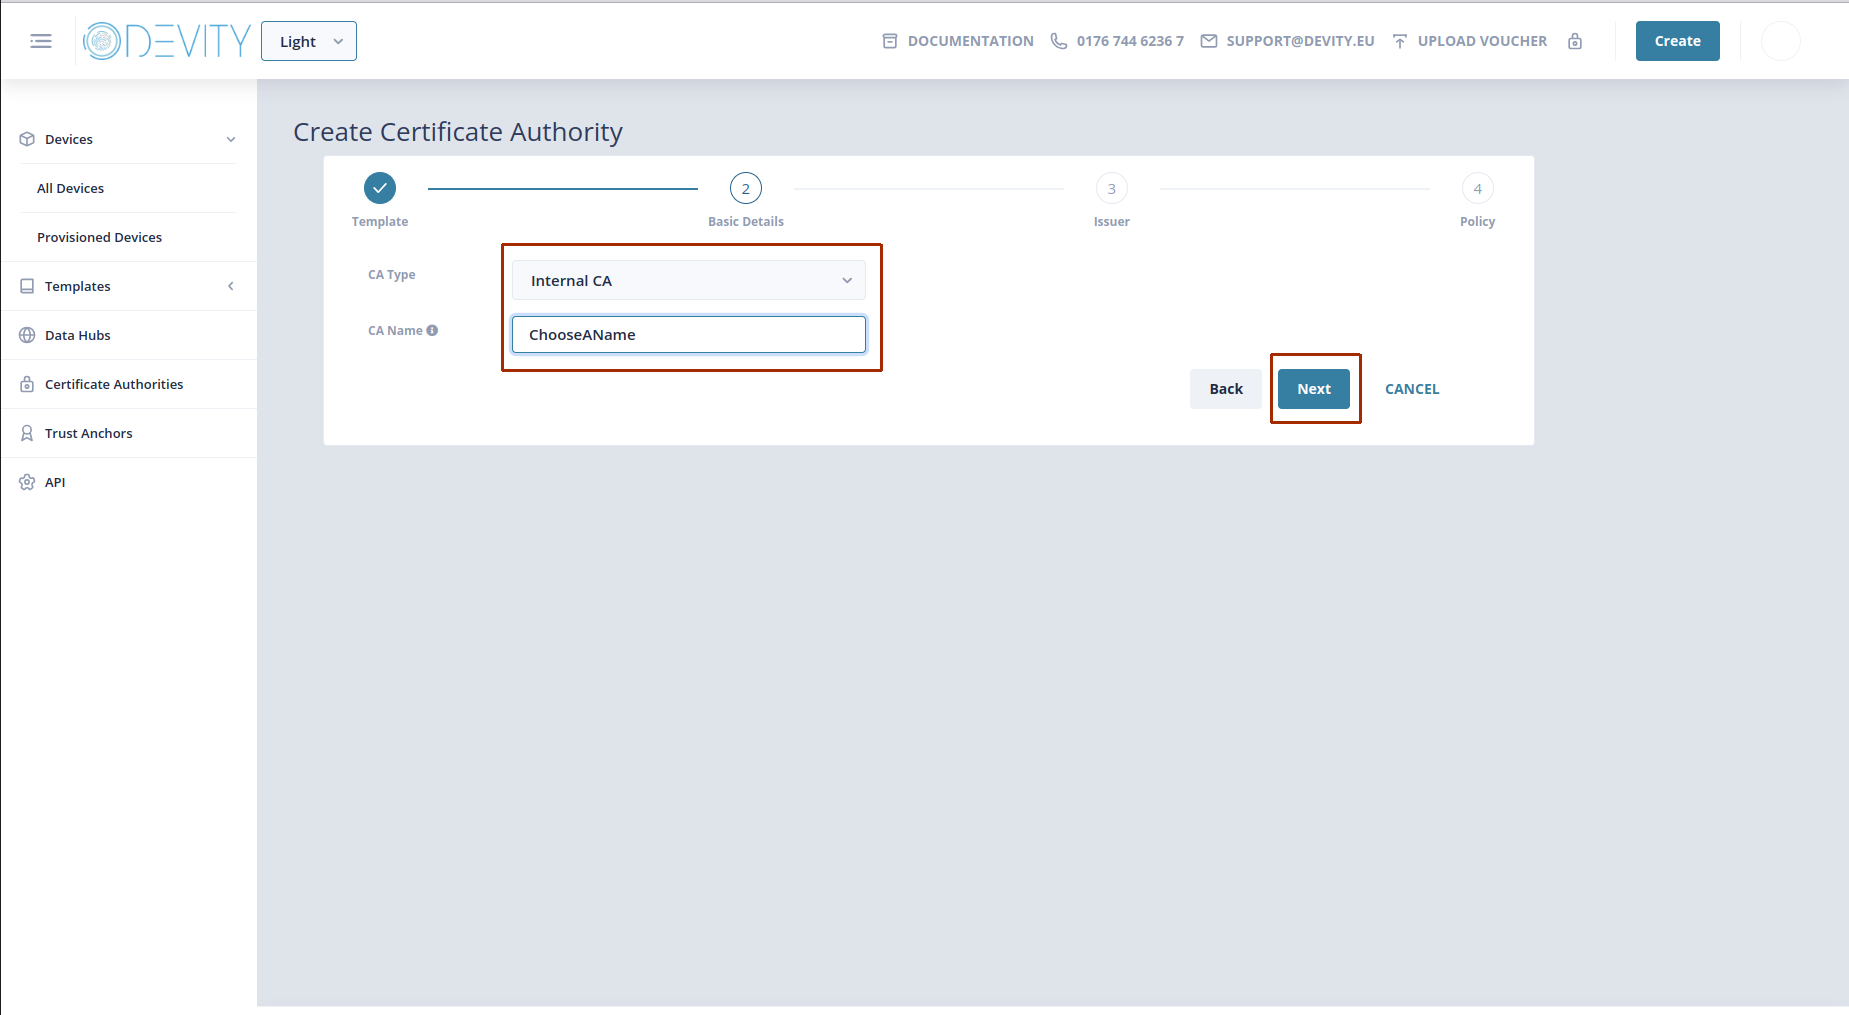
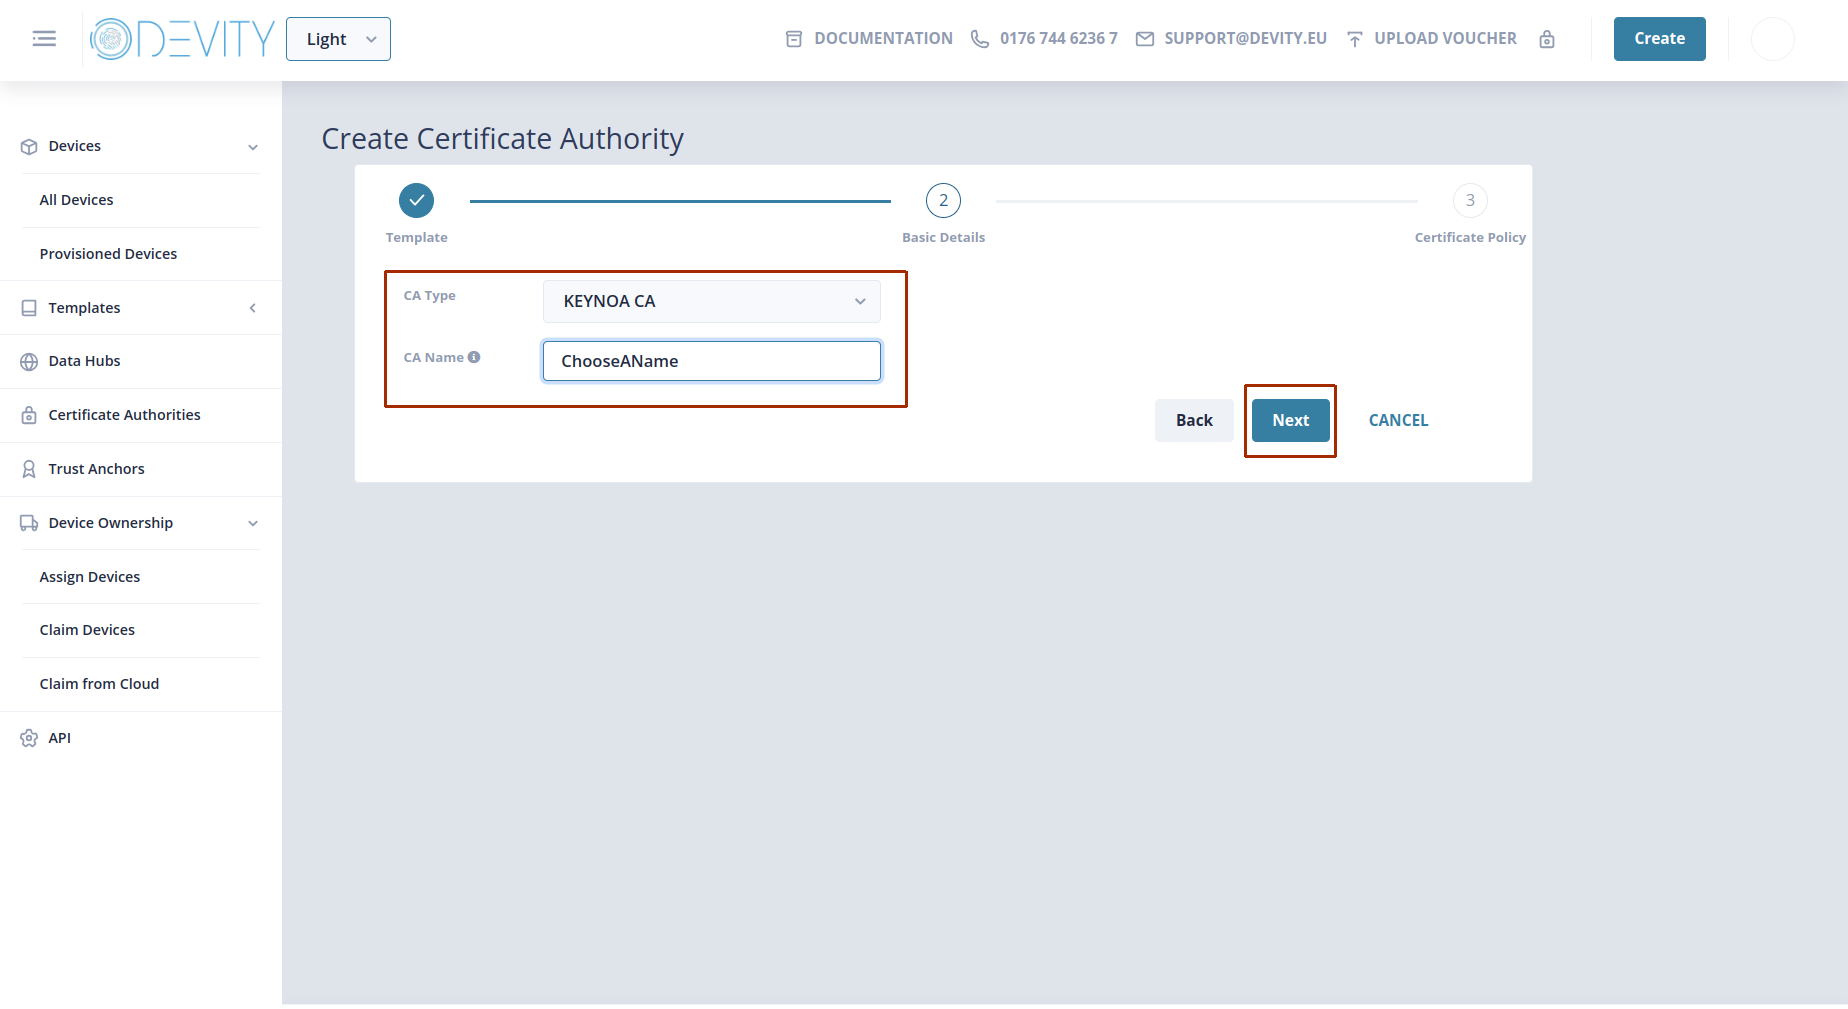
Change in CA naming convention for Internal & External CA to KEYNOA & Enterprise CA respectively

diff --git a/website/docs/reference/certificate-authority.md b/website/docs/reference/certificate-authority.md
@@ -23,8 +23,8 @@ CA in KEYNOA cloud is responsible to issue App Certificates to all KEYNOA Client
 ![KEYNOA](/img/KEYNOA/reference-doc/CA-1.png)
 
 It is possible to create a new CA specific to your security requirements. You could create
-- An [Internal CA](#internal-ca) local to KEYNOA cloud.
-- An Intermediate CA signed by your  [External CA](#external-ca)
+- A [KEYNOA CA](#keynoa-ca) local to KEYNOA cloud.
+- An Intermediate CA signed by your  [Enterprise CA](#enterprise-ca)
 - Or, employ one recommended by DEVITY as the default option.
 
 A maximum of five new CAs can be created.
@@ -36,25 +36,25 @@ Alternatively, for the device to recognize certificates issued by CA, it is nece
 After choosing the suitable CA, the details entered into DataHub and Template are transmitted to the device.
 
 :::info 
-Choose appropriate Internal or External CA while creating a DataHub. When this DataHub is selected while creating a Template, all Certificate Policy Configurations (Step 3 of [Create Template](/tutorial/Thingsboard%20-%20Rule%20Engine/KEYNOA#create-template)) are auto populated. 
+Choose appropriate KEYNOA or Enterprise CA while creating a DataHub. When this DataHub is selected while creating a Template, all Certificate Policy Configurations (Step 3 of [Create Template](/tutorial/Thingsboard%20-%20Rule%20Engine/KEYNOA#create-template)) are auto populated. 
 :::
 
-## Internal CA
+## KEYNOA CA
 
-This CA is local to KEYNOA cloud. It verifies the identities of device applications and issues them valid certificates. You have complete control over the CA policies and certificates, when you create a new Internal CA. Follow the steps to [Create an Internal CA](#create-an-internal-ca). 
+This CA is local to KEYNOA cloud. It verifies the identities of device applications and issues them valid certificates. You have complete control over the CA policies and certificates, when you create a new KEYNOA CA. Follow the steps to [Create a KEYNOA CA](#create-a-keynoa-ca). 
 
 ![KEYNOA](/img/KEYNOA/reference-doc/KEYNOA-CA/Internal-CA.png)
 
-## External CA
+## Enterprise CA
 
-An external CA operates independently from the KEYNOA cloud environment. This could be a Private CA exclusive to a particular Enterprise. To facilitate the issuance of application certificates by this external CA, it is required to create an Intermediate CA. The newly created intermediate CA is signed by the External CA. Subsequently, the Intermediate CA is set up as a local CA within the KEYNOA cloud. Follow the steps to create an [External CA](#create-an-external-ca) signed Intermediate CA.
+An Enterprise CA operates independently from the KEYNOA cloud environment. This could be a Private CA exclusive to a particular Enterprise. To facilitate the issuance of application certificates by this Enterprise CA, it is required to create an Intermediate CA. The newly created intermediate CA is signed by the Enterprise CA. Subsequently, the Intermediate CA is set up as a local CA within the KEYNOA cloud. Follow the steps to create an [Enterprise CA](#create-an-enterprise-ca) signed Intermediate CA.
 
 <!-- To create an Intermediate CA, follow the steps below.  -->
 ![KEYNOA](/img/KEYNOA/reference-doc/Enterprise-CA/External-CA-concept.png)
 
-## Create an Internal CA
+## Create a KEYNOA CA
 
-Follow the steps below to create an Internal CA.
+Follow the steps below to create an KEYNOA CA.
 
 1. Click on 'Create' button and select 'Certificate Authority' to begin.
 
@@ -64,11 +64,11 @@ Follow the steps below to create an Internal CA.
 
 ![KEYNOA](/img/KEYNOA/reference-doc/KEYNOA-CA/2-KEYNOA-CA-Expertise-Level.png) -->
 
-2. Choose 'Internal CA'. Give a unique CA name to identify it later. Click 'Next'.
+2. Choose 'KEYNOA CA'. Give a unique CA name to identify it later. Click 'Next'.
 
 ![KEYNOA](/img/KEYNOA/reference-doc/KEYNOA-CA/3-KEYNOA-CA-Choose-CA-Type.png)
 
-3. Internal CA properties can be set here. The 'Root  CA TTL' and 'Intermediate CA TTL' determine the validity time of the CA, which can be adapted to the use case. The chosen 'Algorithm' determines the cryptographic algorithm of the key pair used to sign the application certificates. Click 'Next'.
+3. KEYNOA CA properties can be set here. The 'Root  CA TTL' and 'Intermediate CA TTL' determine the validity time of the CA, which can be adapted to the use case. The chosen 'Algorithm' determines the cryptographic algorithm of the key pair used to sign the application certificates. Click 'Next'.
 
 ![KEYNOA](/img/KEYNOA/reference-doc/KEYNOA-CA/4-KEYNOA-CA-Set-CA-Properties.png)
 
@@ -85,11 +85,11 @@ A suitable application, MQTT or OPCUA, could also be chosen from the drop down m
 ![KEYNOA](/img/KEYNOA/reference-doc/KEYNOA-CA/4-Choose-Application.png)
 
 
-5. The Internal CA is created successfully. It can be downloaded for any other purpose. 
+5. The KEYNOA CA is created successfully. It can be downloaded for any other purpose. 
 
 ![KEYNOA](/img/KEYNOA/reference-doc/KEYNOA-CA/6-KEYNOA-CA-KEYNOA-CA-Finish.png)
 
-6. The newly created Internal CA is now listed as a valid 'Certificate Authority'. Click on the hamburger menu, to manage this CA. 
+6. The newly created KEYNOA CA is now listed as a valid 'Certificate Authority'. Click on the hamburger menu, to manage this CA. 
 
 ![KEYNOA](/img/KEYNOA/reference-doc/KEYNOA-CA/7-KEYNOA-CA-New-CA-Listed.png)
 
@@ -104,11 +104,11 @@ A suitable application, MQTT or OPCUA, could also be chosen from the drop down m
 
 <!-- [Go to Top](#why-a-ca-is-necessary) -->
 
-## Create an External CA
+## Create an Enterprise CA
 
-Follow the steps below to create an Intermediate CA, signed by an External Root CA.
+Follow the steps below to create an Intermediate CA, signed by an Enterprise Root CA.
 
-1. Choose 'External CA'. Give a unique CA name to identify it later. Click 'Next'.
+1. Choose 'Enterprise CA'. Give a unique CA name to identify it later. Click 'Next'.
 
 ![KEYNOA](/img/KEYNOA/reference-doc/Enterprise-CA/1-create-Ext-CA.png)
 
@@ -121,11 +121,11 @@ Follow the steps below to create an Intermediate CA, signed by an External Root 
 
 ![KEYNOA](/img/KEYNOA/reference-doc/Enterprise-CA/4-Send-CSR.png)
 
-4. Click on the 'Download Generated CSR' to download the CSR file. This is the request to be sent to an External Root CA. Click on 'Next'.
+4. Click on the 'Download Generated CSR' to download the CSR file. This is the request to be sent to an Enterprise Root CA. Click on 'Next'.
 
 ![KEYNOA](/img/KEYNOA/reference-doc/Enterprise-CA/5-Download-CSR.png)
 
-5. Submit the downloaded Certificate Signing Request (CSR) to the External Root CA for obtaining an Intermediate CA certificate. Save this intermediate CA certificate on your computer and have it prepared for uploading in the upcoming prompt.
+5. Submit the downloaded Certificate Signing Request (CSR) to the Enterprise Root CA for obtaining an Intermediate CA certificate. Save this intermediate CA certificate on your computer and have it prepared for uploading in the upcoming prompt.
 
     :::info
     Step 5 is executed outside of KEYNOA cloud environment. 
@@ -135,7 +135,7 @@ Follow the steps below to create an Intermediate CA, signed by an External Root 
 
 ![KEYNOA](/img/KEYNOA/reference-doc/Enterprise-CA/6-Upload-Int-CA-Cert.png)
 
-7. The Intermediate CA, signed by the External Root CA, has been successfully uploaded to the KEYNOA cloud. This implies that the application certificates issued by the Intermediate CA are trusted by the External Root CA. Consequently, all device App Certificates are (indirectly) issued by the External Root CA.
+7. The Intermediate CA, signed by the Enterprise Root CA, has been successfully uploaded to the KEYNOA cloud. This implies that the application certificates issued by the Intermediate CA are trusted by the Enterprise Root CA. Consequently, all device App Certificates are (indirectly) issued by the Enterprise Root CA.
 
 ![KEYNOA](/img/KEYNOA/reference-doc/Enterprise-CA/7-Upload-Successful.png)
 

diff --git a/website/docs/tutorial/Azure - Telemetric Rules/KEYNOA.md b/website/docs/tutorial/Azure - Telemetric Rules/KEYNOA.md
@@ -68,7 +68,7 @@ Please note that Microsoft Azure uses Single-Sign-On (SSO) functionalities. Sign
 
 ![KEYNOA](/img/KEYNOA/Thingsboard/LevelOfExperience.png)
 
-8a-2. Choose "CA Type" `Internal CA` and provide a "CA Name". CA name could be any text to identify the correct CA.
+8a-2. Choose "CA Type" `KEYNOA CA` and provide a "CA Name". CA name could be any text to identify the correct CA.
 
 ![KEYNOA](/img/KEYNOA/Thingsboard/ChooseCAName.png)
 

diff --git a/website/docs/tutorial/AWS/KEYNOA.md b/website/docs/tutorial/AWS/KEYNOA.md
@@ -59,7 +59,7 @@ You can also add a new CA from "Create" button on top right corner.
 
 ![KEYNOA](/img/KEYNOA/Thingsboard/LevelOfExperience.png)
 
-5a-2. Choose "CA Type" `Internal CA` and provide a "CA Name". CA name could be any text to identify the correct CA.
+5a-2. Choose "CA Type" `KEYNOA CA` and provide a "CA Name". CA name could be any text to identify the correct CA.
 
 ![KEYNOA](/img/KEYNOA/Thingsboard/ChooseCAName.png)
 

diff --git a/website/docs/tutorial/Thingsboard - Rule Engine/KEYNOA.md b/website/docs/tutorial/Thingsboard - Rule Engine/KEYNOA.md
@@ -93,7 +93,7 @@ You can also add a new CA from "Create" button on top right corner.
 
 ![KEYNOA](/img/KEYNOA/Thingsboard/LevelOfExperience.png)
 
-5a-2. Choose "CA Type" `Internal CA` and provide a "CA Name". CA name could be any text to identify the correct CA.
+5a-2. Choose "CA Type" `KEYNOA CA` and provide a "CA Name". CA name could be any text to identify the correct CA.
 
 ![KEYNOA](/img/KEYNOA/Thingsboard/ChooseCAName.png)
 
